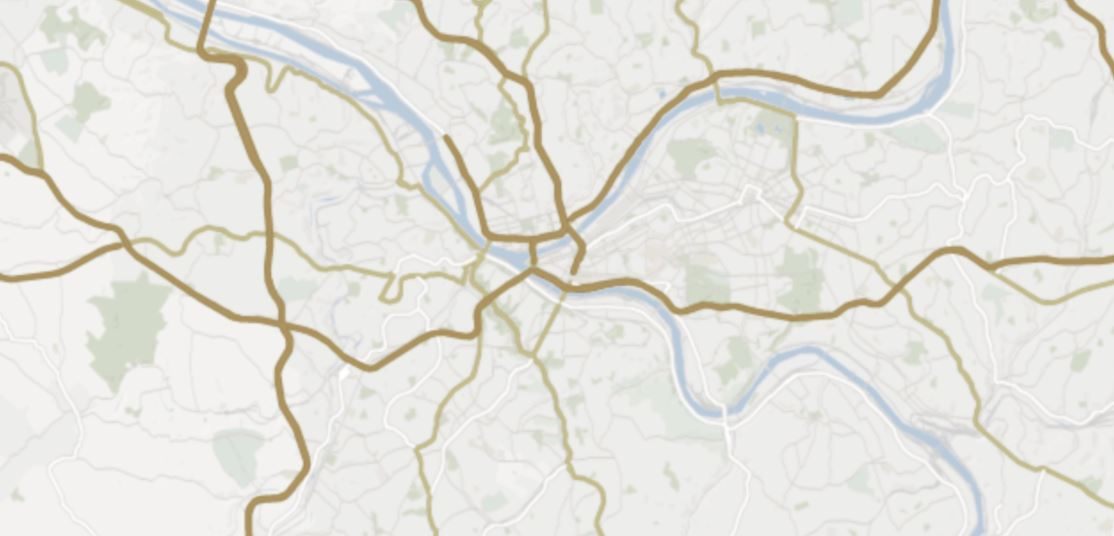
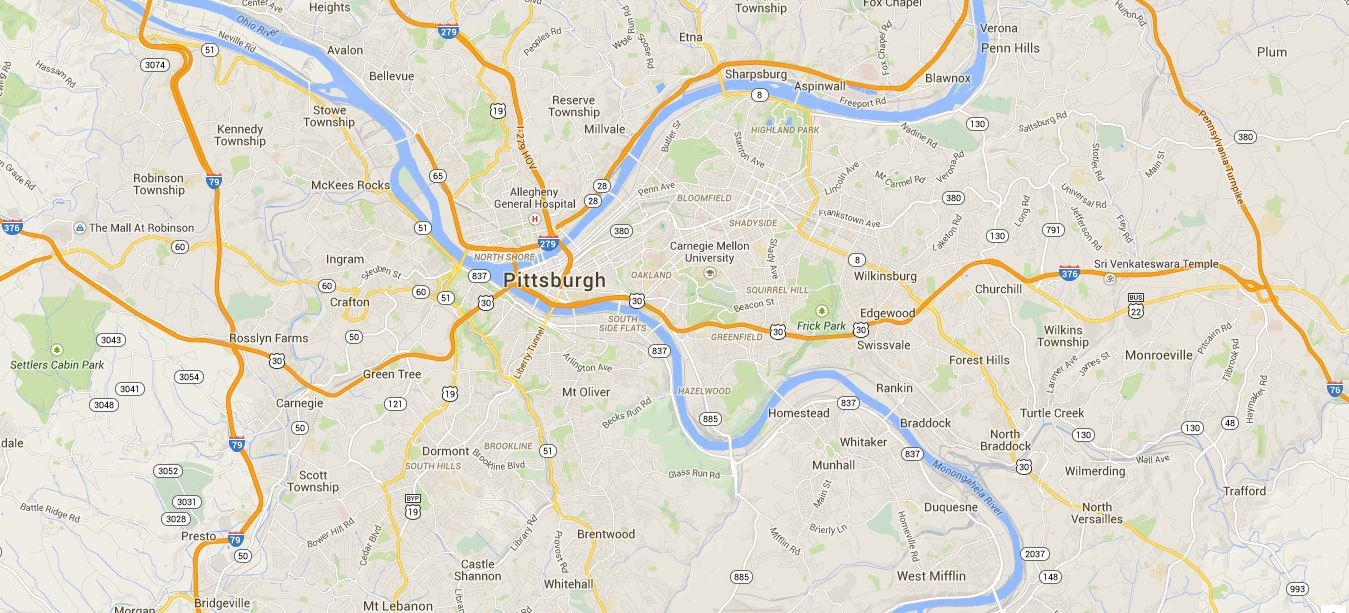
switch to demo screen, high res map background

diff --git a/templates/base.html b/templates/base.html
@@ -4,23 +4,40 @@
 	<script src="http://code.jquery.com/jquery.js"></script>
 	<script src="/static/js/bootstrap.min.js"></script>
 	<link href="/static/css/bootstrap.min.css" rel="stylesheet" media="screen">
-    <link type="text/css" rel="stylesheet" href="/static/theme.css" />
-      <script>
-  $(function() {
-    $( "input[type=submit], a, button" )
-      .button()
-      .click(function( event ) {
-        event.preventDefault();
-      });
-  });
-  </script>
-    <title>Campus Maps</title>
+  <link type="text/css" rel="stylesheet" href="/static/theme.css" />
+  <title>Campus Maps</title>
 </head>
 
 <body>
   <div id="content">
 	  <div id="topbar" class="well well-large">
 		  &nbsp<p class="campus">Campus</p><p class="maps">maps</p>
+      &nbsp&nbsp&nbsp&nbsp&nbsp&nbsp&nbsp&nbsp&nbsp&nbsp&nbsp&nbsp
+      &nbsp&nbsp&nbsp&nbsp&nbsp&nbsp&nbsp&nbsp&nbsp&nbsp&nbsp&nbsp
+      &nbsp&nbsp&nbsp&nbsp&nbsp&nbsp&nbsp&nbsp&nbsp&nbsp&nbsp&nbsp
+      &nbsp&nbsp&nbsp&nbsp&nbsp&nbsp&nbsp&nbsp&nbsp&nbsp&nbsp&nbsp
+      &nbsp&nbsp&nbsp&nbsp&nbsp&nbsp&nbsp&nbsp&nbsp&nbsp&nbsp&nbsp
+      &nbsp&nbsp&nbsp&nbsp&nbsp&nbsp&nbsp&nbsp&nbsp&nbsp&nbsp&nbsp
+      &nbsp&nbsp&nbsp&nbsp&nbsp&nbsp&nbsp&nbsp&nbsp&nbsp&nbsp&nbsp
+      &nbsp&nbsp&nbsp&nbsp&nbsp&nbsp&nbsp&nbsp&nbsp&nbsp&nbsp&nbsp
+      &nbsp&nbsp&nbsp&nbsp&nbsp&nbsp&nbsp&nbsp&nbsp&nbsp&nbsp&nbsp
+      &nbsp&nbsp&nbsp&nbsp&nbsp&nbsp&nbsp&nbsp&nbsp&nbsp&nbsp&nbsp
+      &nbsp&nbsp&nbsp&nbsp&nbsp&nbsp&nbsp&nbsp&nbsp&nbsp&nbsp&nbsp
+      &nbsp&nbsp&nbsp&nbsp&nbsp&nbsp&nbsp&nbsp&nbsp&nbsp&nbsp&nbsp
+      &nbsp&nbsp&nbsp&nbsp&nbsp&nbsp&nbsp&nbsp&nbsp&nbsp&nbsp&nbsp
+      &nbsp&nbsp&nbsp&nbsp&nbsp&nbsp&nbsp&nbsp&nbsp&nbsp&nbsp&nbsp
+      &nbsp&nbsp&nbsp&nbsp&nbsp&nbsp&nbsp&nbsp&nbsp&nbsp&nbsp&nbsp
+      &nbsp&nbsp&nbsp&nbsp&nbsp&nbsp&nbsp&nbsp&nbsp&nbsp&nbsp&nbsp
+      &nbsp&nbsp&nbsp&nbsp&nbsp&nbsp&nbsp&nbsp&nbsp&nbsp&nbsp&nbsp
+      &nbsp&nbsp&nbsp&nbsp&nbsp&nbsp&nbsp&nbsp&nbsp&nbsp&nbsp&nbsp
+      &nbsp&nbsp&nbsp&nbsp&nbsp&nbsp&nbsp&nbsp&nbsp&nbsp&nbsp&nbsp
+      &nbsp&nbsp&nbsp&nbsp&nbsp&nbsp&nbsp&nbsp&nbsp&nbsp&nbsp&nbsp
+      &nbsp&nbsp&nbsp&nbsp&nbsp&nbsp&nbsp&nbsp&nbsp&nbsp&nbsp&nbsp
+      &nbsp&nbsp&nbsp&nbsp&nbsp&nbsp&nbsp&nbsp&nbsp&nbsp&nbsp&nbsp
+      &nbsp&nbsp&nbsp&nbsp&nbsp&nbsp&nbsp&nbsp&nbsp&nbsp&nbsp&nbsp
+      <form action="/" method="get" style="display:inline;">
+        <input type="submit" value="Home" class="btn btn-warning">
+      </form>
 	  </div>
     <div id="bodybar">
     {% block content %}{% endblock %}

diff --git a/templates/index.html b/templates/index.html
@@ -1,42 +1,10 @@
 {% extends "base.html" %}
 
 {% block content %}
-    <div id="topbody">
-    	top half
-    	&nbsp
-		<br>
-		&nbsp
-		<br>
-		&nbsp
-		<br>
-		&nbsp
-		<br>
-		&nbsp
-		<br>
-		&nbsp
-		<br>
-		&nbsp
-		<br>
-    </div>
-    <div id="botbody" class="well well-large">
-		<img src="/static/home.jpg" alt="" style="height:15%;width:15%">
-		&nbsp
-		&nbsp
-		<img src="/static/menu.jpg" alt="" style="height:15%;width:15%">
-		&nbsp
-		&nbsp
-		<img src="/static/atm_map.jpg" alt="" style="height:15%;width:15%">
-		&nbsp
-		&nbsp
-		<img src="/static/computerlab_popup.jpg" alt="" style="height:15%;width:15%">
-		&nbsp
-		&nbsp
-		<img src="/static/call_link.jpg" alt="" style="height:15%;width:15%">
-		&nbsp
-		&nbsp
-		<img src="/static/computerlabs.jpg" alt="" style="height:15%;width:15%">
-		&nbsp
-		&nbsp
-		<img src="/static/fitnesscenter_popup.jpg" alt="" style="height:15%;width:15%">
-	</div>
+	index page
+	<br>
+	<form action="/demo" method="get">
+		<input type="submit" value="Demo" class="btn btn-default">
+    </form>
+	
 {% endblock %}

diff --git a/templates/demo.html b/templates/demo.html
@@ -1,0 +1,52 @@
+{% extends "base.html" %}
+
+{% block content %}
+    <div id="topbodydemo">
+    	&nbsp
+		<br>
+		&nbsp
+		<br>
+		&nbsp
+		<br>
+		&nbsp
+		<br>
+		&nbsp
+		<br>
+		&nbsp
+		<br>
+		&nbsp
+    </div>
+    <div id="botbodydemo" class="well well-large">
+		<img src="/static/home.jpg" alt="" style="height:100%">
+		&nbsp
+		&nbsp
+		&nbsp
+		&nbsp
+		<img src="/static/menu.jpg" alt="" style="height:100%">
+		&nbsp
+		&nbsp
+		&nbsp
+		&nbsp
+		<img src="/static/atm_map.jpg" alt="" style="height:100%">
+		&nbsp
+		&nbsp
+		&nbsp
+		&nbsp
+		<img src="/static/computerlab_popup.jpg" alt="" style="height:100%">
+		&nbsp
+		&nbsp
+		&nbsp
+		&nbsp
+		<img src="/static/call_link.jpg" alt="" style="height:100%">
+		&nbsp
+		&nbsp
+		&nbsp
+		&nbsp
+		<img src="/static/computerlabs.jpg" alt="" style="height:100%">
+		&nbsp
+		&nbsp
+		&nbsp
+		&nbsp
+		<img src="/static/fitnesscenter_popup.jpg" alt="" style="height:100%">
+	</div>
+{% endblock %}

diff --git a/static/theme.css b/static/theme.css
@@ -40,31 +40,33 @@ p {
 
 #topbar {
     margin: 5px;
-    height:20%;
+    height:4%;
 }
 
 #bodybar {
     margin: 5px;
-    height:80%;
+    height:96%;
 }
 
-#topbody {
-	height:35%;
+#topbodydemo {
+	height:10%;
 	width:100%;
 }
 
-#botbody {
+#botbodydemo {
 	background: rgba(203, 224, 165, 0.9);
-	height:65%;
+	height:62%;
 	margin-bottom: 5px;
 	overflow: auto;
-	white-space: nowrap
+	white-space: nowrap;
 }
 
-body {
-	background-image: url("staticmap.png");
+html, body {
+	height:100%;
+	background-image: url("map_bg.jpg");
 	background-repeat: no-repeat;
-	background-size: 100% auto;
+	background-size: cover;
+	overflow:hidden;
 	font-family: Roboto Regular;
 }
 

diff --git a/code.py b/code.py
@@ -13,6 +13,11 @@ class MainPage(webapp2.RequestHandler):
   def get(self):
     render_template(self, 'index.html', {})
 
+class Demo(webapp2.RequestHandler):
+  def get(self):
+    render_template(self, 'demo.html', {})
+
 app = webapp2.WSGIApplication([
-  ('/', MainPage)
-], debug=True)
+  ('/', MainPage),
+  ('/demo', Demo)
+])
